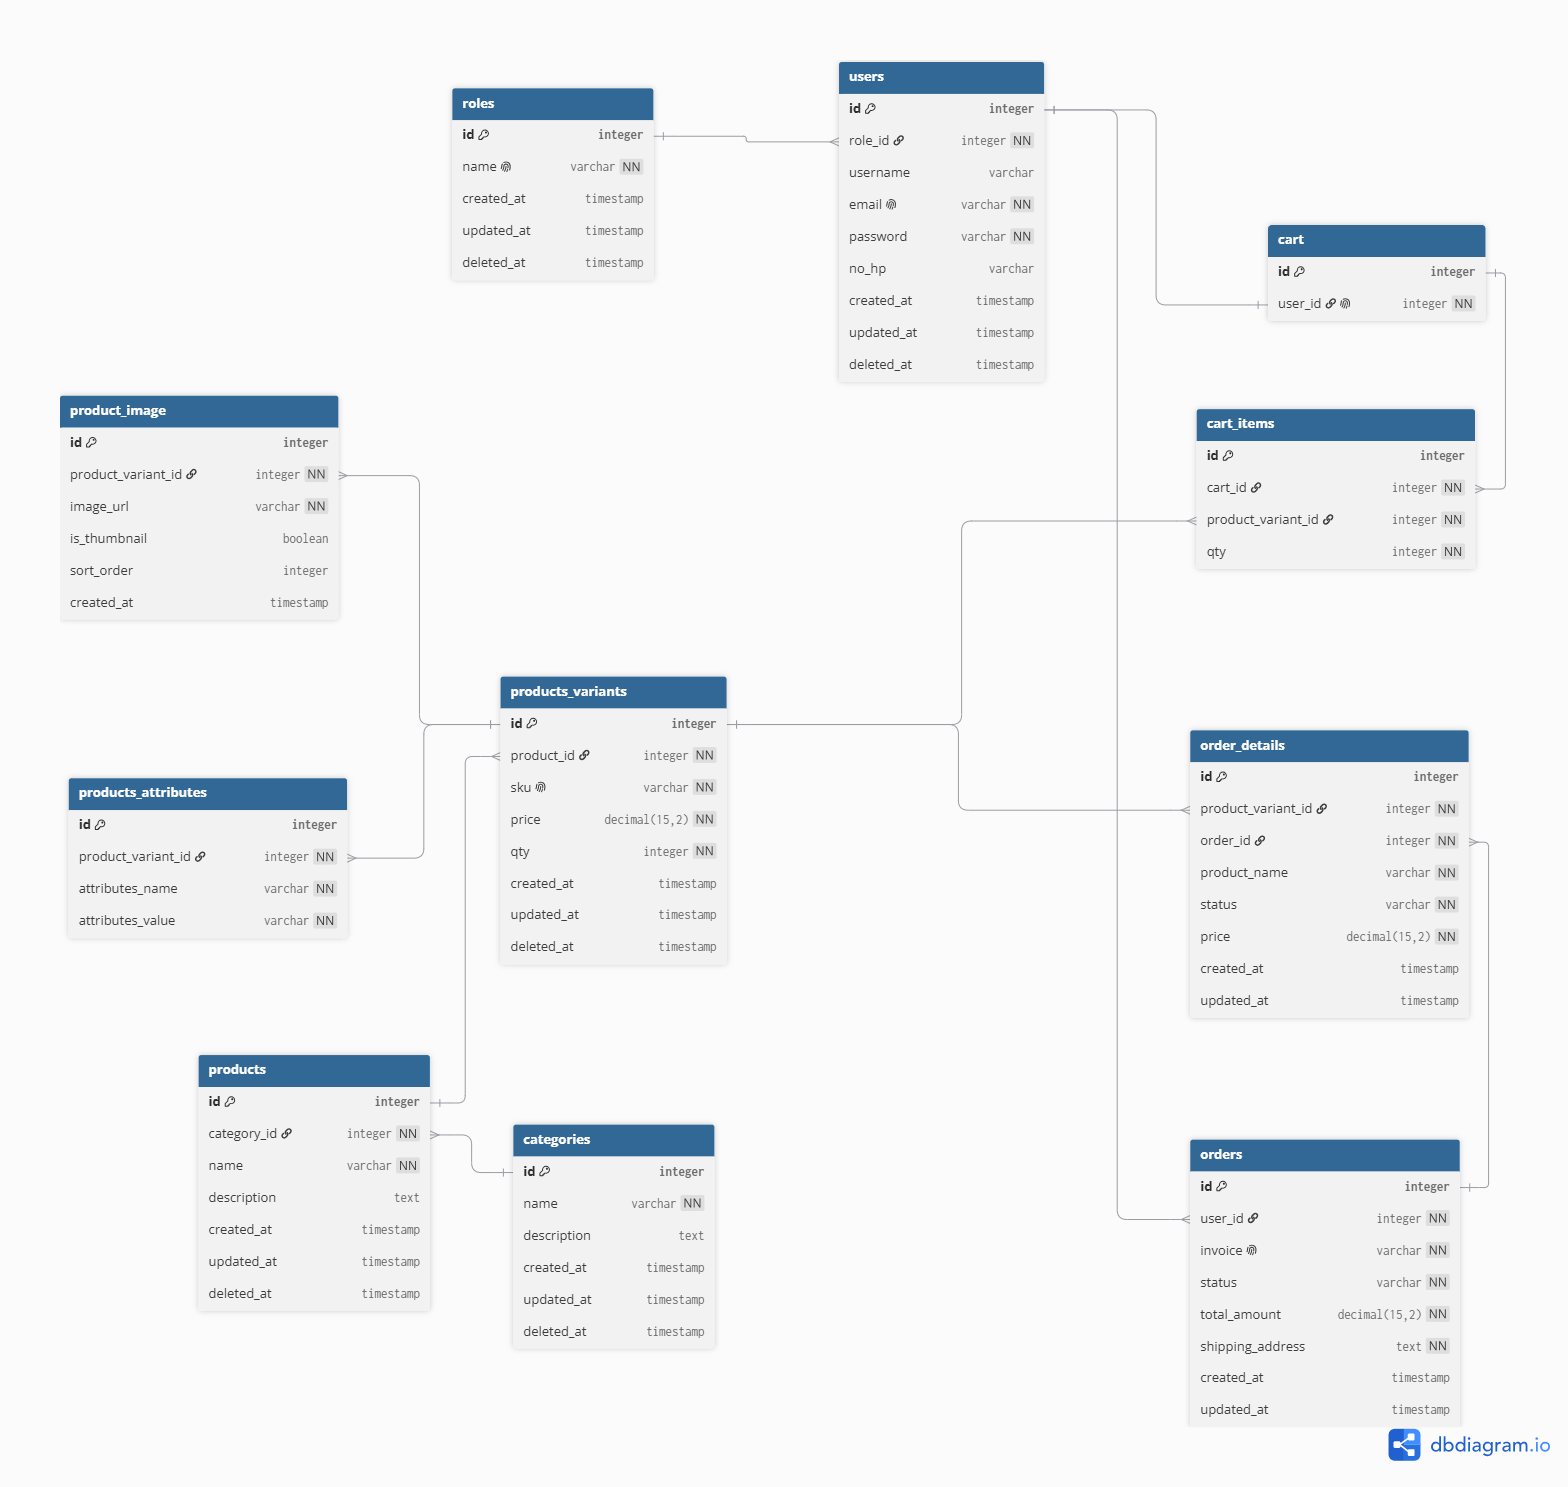
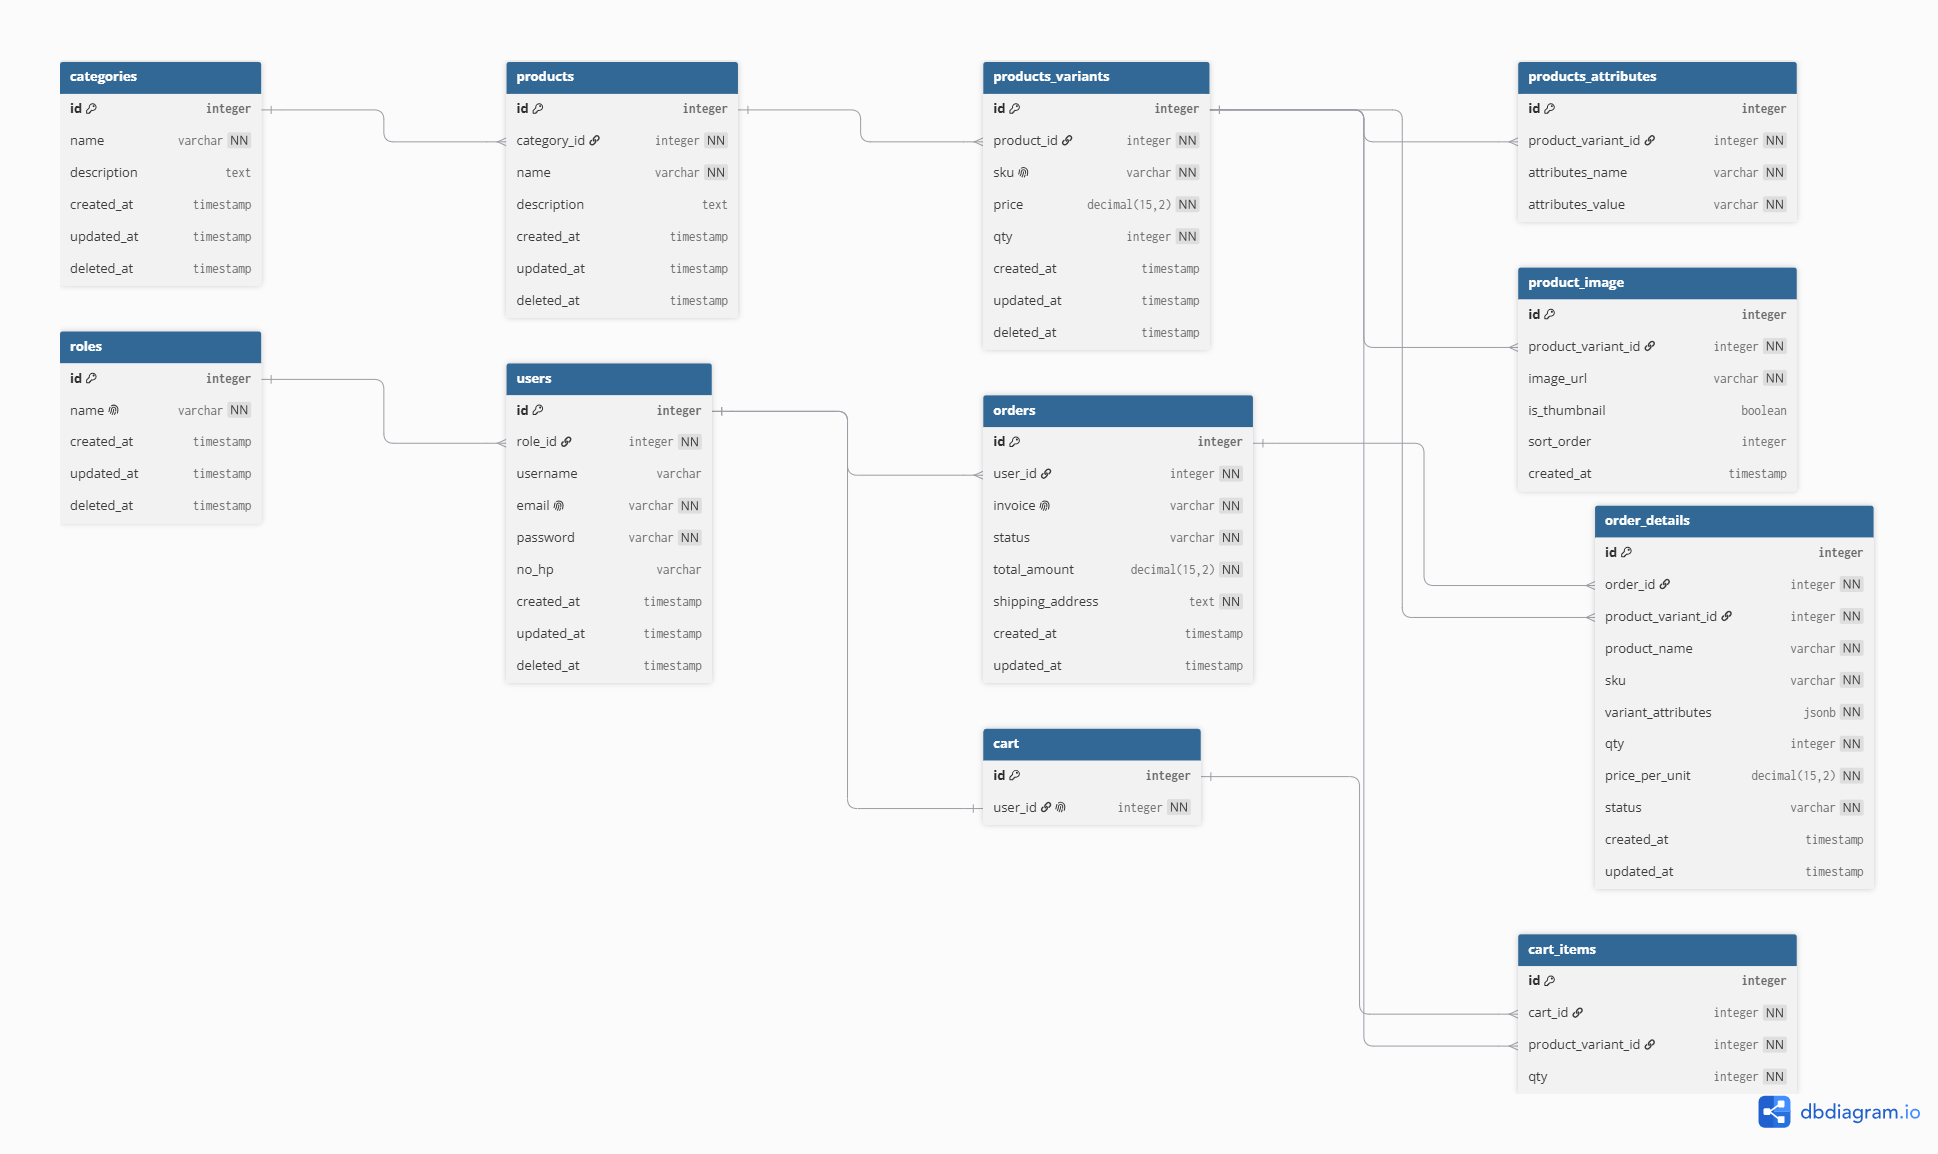
feat: menambahkan perancangan dan siap maju ke fase selanjutnya

diff --git a/web/components/layouts/Header.tsx b/web/components/layouts/Header.tsx
@@ -11,7 +11,7 @@ export default function Header() {
     <header className="sticky top-0 lg:h-16 bg-krem flex items-center gap-0 lg:p-[0_80px] text-black z-10">
       {/* left */}
       <div className="flex gap-12 w-full items-center">
-        <p className="font-italiana text-[28px]">Terralia</p>
+        <p className="font-italiana text-[28px]">MWA Store</p>
         <div className="flex gap-6">
           <MegaNav />
           <NavLinkList links={navLinks} linkClassName="uppercase" />

diff --git a/web/components/layouts/Footer.tsx b/web/components/layouts/Footer.tsx
@@ -27,7 +27,7 @@ interface FooterProps extends React.HTMLAttributes<HTMLElement> {
  */
 export const Footer: FC<FooterProps> = ({
   //   logoSrc,
-  companyName = "Terralia",
+  companyName = "MWA Store",
   description = "Empowering businesses with intelligent financial solutions, designed for the future of finance.",
   usefulLinks = [
     { label: "Products", href: "#" },

diff --git a/web/app/layout.tsx b/web/app/layout.tsx
@@ -29,7 +29,7 @@ const plusJakartaSans = Plus_Jakarta_Sans({
 });
 
 export const metadata: Metadata = {
-  title: "Terralia",
+  title: "MWA Store",
   description: "Generated by create next app",
 };
 

diff --git a/docs/adr/004-status-per-item-order.md b/docs/adr/004-status-per-item-order.md
@@ -1,0 +1,36 @@
+# ADR 004: Status per Item Order dengan Status Order Turunan
+
+**Tanggal:** 28 September 2026
+**Status:** Diterima
+
+## Konteks
+
+Satu order dapat berisi beberapa barang. Dalam praktiknya, tidak selalu semua barang bernasib sama: misalnya sepatu sudah dikirim, sedangkan kaos kaki dibatalkan karena stok habis. Kami perlu memutuskan di level mana status dilacak.
+
+Tiga level dipertimbangkan:
+
+1. **Per order:** satu status untuk seluruh order.
+2. **Per item order:** tiap baris `order_details` punya status sendiri.
+3. **Per unit:** satu baris dengan `qty` 2 dapat dipecah (1 unit `shipped`, 1 unit `processing`), membutuhkan tabel tambahan.
+
+## Keputusan
+
+Kami memilih **level 2**: status dilacak di tabel `order_details` (per item). Kolom `orders.status` tetap ada, tetapi **dihitung otomatis** oleh backend dari status item-itemnya, bukan diubah manual oleh admin.
+
+Aturan penghitungan:
+
+1. Item `cancelled` diabaikan.
+2. Jika semua item `cancelled`, order menjadi `cancelled`.
+3. Selain itu, order mengikuti tahap paling awal dari item yang tersisa, dengan urutan `pending` → `processing` → `shipped` → `delivered`.
+
+Aturan perpindahan status item: hanya boleh maju sesuai urutan tersebut, boleh menjadi `cancelled` selama belum `shipped`, dan item yang sudah `cancelled` atau `delivered` tidak dapat diubah lagi. Saat item dibatalkan, stok varian dikembalikan sebesar `qty` item tersebut.
+
+## Alasan (Trade-offs)
+
+1. **Sesuai kebutuhan nyata:** Kasus "satu jenis barang habis, yang lain lanjut" realistis untuk satu toko. Kasus memecah satu jenis barang per unit jarang terjadi untuk satu gudang.
+2. **Lebih sederhana dari level 3:** Level 3 membutuhkan tabel tambahan, validasi bahwa total `qty` pecahan sama dengan `qty` item, dan UI admin untuk memecah pengiriman. Kompleksitas itu tidak sebanding dengan manfaatnya di project ini.
+3. **Lebih ekspresif dari level 1:** Level 1 tidak bisa menggambarkan pembatalan sebagian barang.
+4. **Satu sumber kebenaran:** Dengan `orders.status` sebagai turunan, status order tidak bisa bertentangan dengan status item-itemnya.
+5. **Kekurangan:** Satu baris item dengan `qty` lebih dari 1 hanya memiliki satu status. Jika hanya sebagian `qty` yang perlu dibatalkan, order dibatalkan lalu customer membuat order baru.
+6. **Kekurangan:** Status order harus dihitung ulang setiap kali status item berubah. Jalur kode yang lupa memanggil perhitungan ini akan membuat status order tidak sinkron, sehingga perlu diuji khusus.
+7. **Jalur upgrade:** Jika suatu saat level 3 dibutuhkan, tabel pecahan status per unit dapat ditambahkan tanpa mengubah struktur `orders` dan `order_details`.

diff --git a/docs/adr/005-strategi-varian-produk.md b/docs/adr/005-strategi-varian-produk.md
@@ -1,0 +1,28 @@
+# ADR 005: Strategi Varian Produk dan Snapshot pada Order
+
+**Tanggal:** 28 September 2026
+**Status:** Diterima
+
+## Konteks
+
+Satu produk (misalnya "Sepatu Lari") dapat tersedia dalam beberapa varian dengan atribut berbeda (ukuran, warna), dan tiap varian memiliki SKU, harga, dan stok sendiri. Desain awal menyimpan `sku`, `price`, dan `qty` langsung di tabel `products`, yang tidak dapat menggambarkan kasus ini.
+
+Selain itu, invoice harus menjadi catatan historis yang tidak berubah walaupun data produk kemudian diedit atau dihapus.
+
+## Keputusan
+
+1. **Produk dan varian dipisah.** Tabel `products` hanya menyimpan data umum (nama, deskripsi, kategori). Tabel `products_variants` menyimpan `sku`, `price`, dan `qty`.
+2. **Atribut varian disimpan di tabel terpisah** (`products_attributes`) dengan pasangan nama dan nilai (misalnya `Ukuran: 42`, `Warna: Hitam`).
+3. **Gambar terhubung ke varian** lewat tabel `product_image`, dengan penanda `is_thumbnail` dan urutan tampil.
+4. **Cart dan order mereferensikan `product_variant_id`**, bukan `product_id`.
+5. **Order menyimpan snapshot.** Tabel `order_details` menyalin `product_name`, `sku`, `variant_attributes` (bertipe `jsonb`), dan `price_per_unit` pada saat checkout.
+
+## Alasan (Trade-offs)
+
+1. **Sesuai kenyataan:** Yang dibeli customer adalah varian tertentu (sepatu ukuran 42 hitam), bukan produk generik. Stok dan harga memang melekat pada varian.
+2. **Atribut fleksibel:** Dengan tabel atribut terpisah, produk baru dapat memiliki atribut berbeda (misalnya "Bahan") tanpa menambah kolom.
+3. **Invoice tetap utuh:** Dengan snapshot, admin bebas mengubah harga atau SKU tanpa merusak riwayat, dan invoice lama tetap valid meskipun varian dihapus. Ini juga memungkinkan SKU diedit karena tidak ada order lama yang bergantung pada nilai SKU di master data.
+4. **Denormalisasi yang disengaja:** Data di `order_details` tampak duplikat dari master produk. Ini disengaja, karena data transaksional harus beku.
+5. **Kekurangan:** Query katalog menjadi lebih kompleks. Daftar produk perlu menghitung `price_from` (harga varian termurah) dan mengambil thumbnail lewat join, sehingga perlu memperhatikan optimasi query (`select_related`, `prefetch_related`) agar tidak terjadi N+1.
+6. **Kekurangan:** Satu produk hanya boleh memiliki satu gambar thumbnail, dan aturan ini tidak dapat dipaksakan oleh DBML biasa. Validasi dilakukan di level aplikasi (Django).
+7. **Kekurangan:** `variant_attributes` di order disimpan sebagai `jsonb`, sehingga tidak dapat diquery per atribut secara relasional. Ini diterima karena data snapshot hanya dibaca, tidak dicari.

diff --git a/docs/prd.md b/docs/prd.md
@@ -60,6 +60,7 @@ Project ini adalah aplikasi e-commerce **satu toko** yang dibangun untuk belajar
 - Checkout dengan alamat pengiriman
 - Melihat riwayat dan detail pesanan, termasuk status tiap barang
 - Membatalkan pesanan selama masih `pending`
+- menggunakan payment sandbox agar mirip dengan yang asli
 
 **Admin (React/Vue, dashboard)**
 
@@ -85,7 +86,7 @@ Project ini adalah aplikasi e-commerce **satu toko** yang dibangun untuk belajar
 | Multi-vendor / marketplace                      | Project single-store dengan satu admin. Tidak ada tabel toko/seller                           |
 | Pemecahan status per unit (partial fulfillment) | Kasus jarang untuk satu gudang, menambah tabel dan validasi yang rumit. Bisa di-upgrade nanti |
 | Nomor resi dan pilihan kurir                    | Status pengiriman cukup lewat status item, tanpa data paket                                   |
-| Payment gateway asli                            | 🖊 Putuskan: simulasi manual atau tidak ada pembayaran sama sekali                            |
+| Payment gateway asli                            | Menggunakan sandbox karena project portofolio                                                 |
 | Refresh token                                   | Disederhanakan: access token 7 hari dalam httpOnly cookie                                     |
 | Notifikasi email / WhatsApp                     | Di luar fokus belajar                                                                         |
 | Review dan rating produk                        | Di luar fokus belajar                                                                         |

diff --git a/docs/adr/002-pemilihan-django-rest-framework.md b/docs/adr/002-pemilihan-django-rest-framework.md
@@ -1,0 +1,19 @@
+# ADR 002: Pemilihan Django REST Framework sebagai Backend
+
+**Tanggal:** 28 September 2026
+**Status:** Diterima
+
+## Konteks
+
+Dua frontend terpisah (Next.js untuk toko publik dan React/Vue untuk dashboard admin) membutuhkan satu backend API yang menyimpan data di PostgreSQL. Backend ini harus mendukung autentikasi, pembagian peran (customer dan admin), validasi input, serta format respons dan error yang seragam.
+
+## Keputusan
+
+Kami memutuskan menggunakan **Django REST Framework (DRF)** sebagai backend, dibandingkan membangun API dengan framework yang lebih minimal seperti Express atau FastAPI.
+
+## Alasan (Trade-offs)
+
+1. **Fitur bawaan yang relevan:** ORM, migrasi database, serializer untuk validasi, sistem permission, dan Django Admin sudah tersedia. Tidak perlu merakit dari nol.
+2. **Cocok dengan tujuan belajar:** Project ini untuk mempelajari arsitektur 3-layer dan pengelolaan API contract. Dengan DRF, waktu lebih banyak dipakai untuk memahami desain API daripada menyiapkan fondasi.
+3. **Dukungan PostgreSQL yang baik:** Tipe seperti `JSONField` (untuk snapshot atribut varian) dan operasi atomik dengan `F()` expression (untuk update stok) tersedia langsung.
+4. **Kekurangan:** Struktur Django cukup opinionated dan bisa terasa berat untuk API sekecil ini. Format error default DRF (`{"detail": "..."}`) juga berbeda dari format di API contract, sehingga perlu custom exception handler.

diff --git a/docs/roadmap.md b/docs/roadmap.md
@@ -23,18 +23,18 @@ Panduan urutan kerja dari awal sampai akhir. Task yang terlewat boleh ditambahka
 - [x] Snapshot nama produk, SKU, atribut, dan harga di `order_details`
 - [x] Konvensi bahasa (field/status/code Inggris, message Indonesia)
 - [x] PRD terisi
+- [x] Update DBML: hapus `order_detail_fulfillments`, tambah `status` di `order_details`
+- [x] Update DBML: `variant_attributes` jadi `jsonb` (atau putuskan tetap `varchar`)
+- [x] Putuskan di PRD: ada simulasi pembayaran atau tidak
+- [x] ADR: pemilihan Django REST Framework
+- [x] ADR: strategi auth (httpOnly cookie)
+- [x] ADR: status per item dengan status order turunan
+- [x] ADR: strategi varian produk
 
 **Masih tersisa**
 
-- [ ] Update DBML: hapus `order_detail_fulfillments`, tambah `status` di `order_details`
-- [ ] Update DBML: `variant_attributes` jadi `jsonb` (atau putuskan tetap `varchar`)
-- [ ] Simpan DBML sebagai `docs/database.dbml` di repo, ekspor ulang PNG
-- [ ] Putuskan di PRD: ada simulasi pembayaran atau tidak
-- [ ] ADR: strategi varian produk
-- [ ] ADR: pemilihan Django REST Framework
-- [ ] ADR: strategi auth (httpOnly cookie)
 - [ ] ADR: message API berbahasa Indonesia
-- [ ] ADR: status per item dengan status order turunan
+- [ ] Simpan DBML sebagai `docs/database.dbml` di repo, ekspor ulang PNG
 
 **Keluar dari fase ini kalau:** DBML, api-contract, dan PRD tidak lagi saling bertentangan.
 
